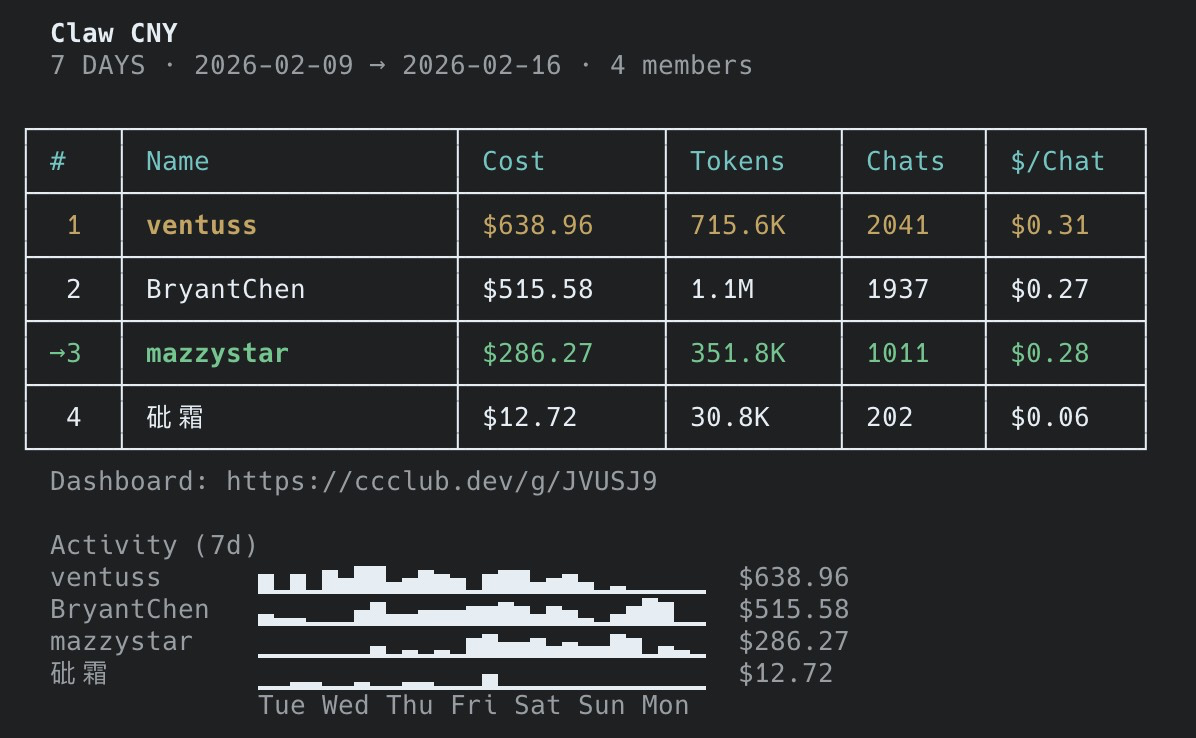
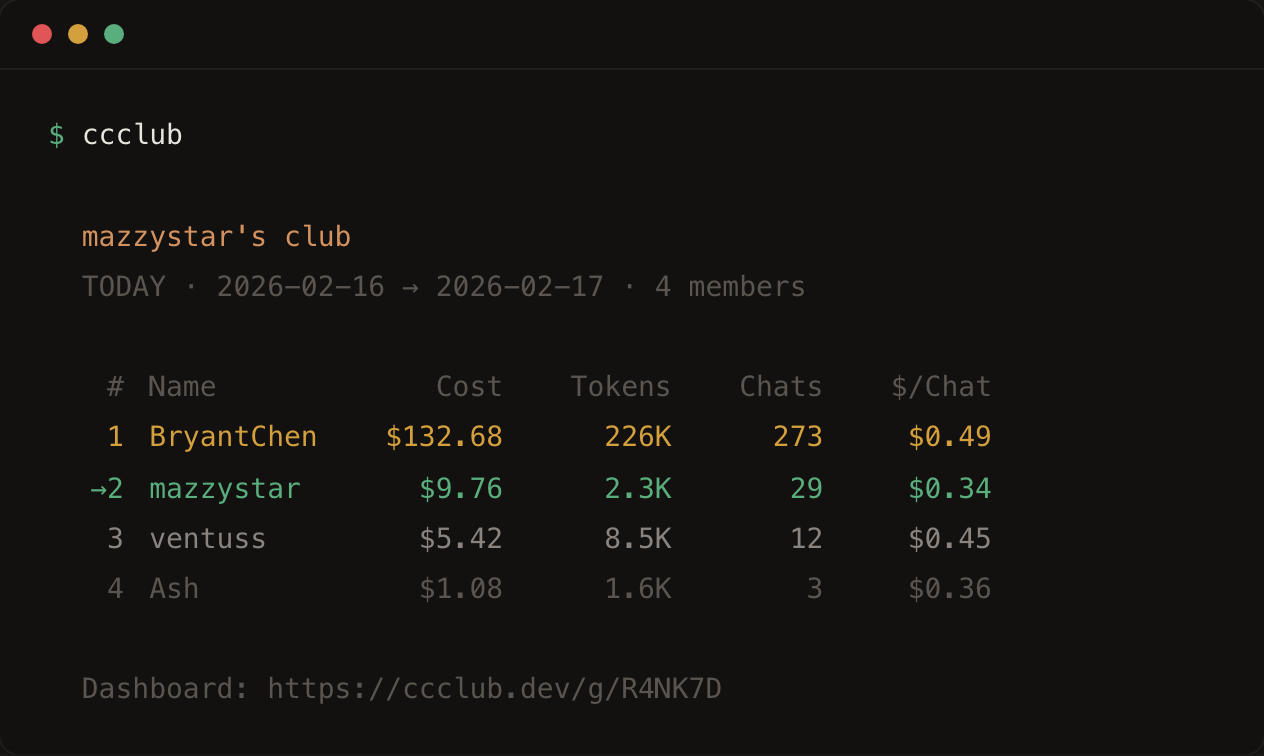
Revamp landing page: table alignment, realistic data, merge sections
- Use inline HTML table for guaranteed column alignment
- Update mock data to realistic daily numbers ($132/$9/$5/$1)
- Merge How-it-works and Privacy into one cohesive section
- Re-screenshot demo.png from live landing page via Playwright

diff --git a/packages/worker/src/landing.ts b/packages/worker/src/landing.ts
@@ -104,6 +104,14 @@ function landingHTML() {
     .terminal-body .accent { color: #d4935e; }
     .terminal-body .gold { color: #d4a03e; }
     .terminal-body .me { color: #5aad7d; }
+    .rank-tbl { border-collapse: collapse; font: inherit; line-height: inherit; display: inline-table; vertical-align: top; }
+    .rank-tbl td { padding: 0; text-align: right; padding-left: 4ch; }
+    .rank-tbl td:first-child { text-align: right; padding-left: 0; width: 2.5ch; }
+    .rank-tbl td:nth-child(2) { text-align: left; padding-left: 1.5ch; min-width: 10ch; }
+    .rank-tbl tr.gold td { color: #d4a03e; }
+    .rank-tbl tr.me td { color: #5aad7d; }
+    .rank-tbl tr.dim td { color: #5a5550; }
+    .rank-tbl thead td { color: #5a5550; }
 
     /* CTA */
     .cta { padding: 16px 0 80px; text-align: center; }
@@ -153,20 +161,11 @@ function landingHTML() {
       font-size: 13px; color: #c8c4be;
     }
 
-    /* Privacy */
-    .privacy-grid {
-      display: grid; grid-template-columns: 1fr 1fr; gap: 32px;
-      margin-bottom: 20px;
+    /* How-detail */
+    .how-detail {
+      margin-top: 24px; color: #6b6560; font-size: 14px; line-height: 1.7;
     }
-    .privacy-list { list-style: none; }
-    .privacy-list li {
-      font-size: 14px; line-height: 2; color: #8a8480;
-      display: flex; align-items: center; gap: 8px;
-    }
-    .privacy-list .icon-yes { color: #5aad7d; font-size: 13px; }
-    .privacy-list .icon-no { color: #c45c5c; font-size: 13px; }
-    .privacy-note { color: #6b6560; font-size: 14px; line-height: 1.6; }
-    .privacy-note code {
+    .how-detail code {
       background: #242220; padding: 1px 6px; border-radius: 4px;
       font-size: 13px; color: #c8c4be;
     }
@@ -192,7 +191,6 @@ function landingHTML() {
     @media (max-width: 600px) {
       .hero { padding: 64px 0 40px; }
       .hero h1 { font-size: 30px; }
-      .privacy-grid { grid-template-columns: 1fr; gap: 16px; }
       .cmd-row { flex-direction: column; gap: 2px; }
     }
   </style>
@@ -221,13 +219,14 @@ function landingHTML() {
         <div class="terminal-body"><span class="prompt">$</span> <span class="cmd">ccclub</span>
 
   <span class="accent">mazzystar's club</span>
-  <span class="dim">7 DAYS \u00b7 2026-02-09 \u2192 2026-02-16 \u00b7 4 members</span>
+  <span class="dim">TODAY \u00b7 2026-02-16 \u2192 2026-02-17 \u00b7 4 members</span>
 
-  <span class="dim">#   Name               Cost    Tokens   Chats   $/Chat</span>
-  <span class="gold">\u21921   ventuss         $638.96     8.2M     347    $1.84</span>
-   2   BryantChen      $515.58     6.6M     280    $1.84
-  <span class="me">\u21923   mazzystar       $286.27     3.7M     195    $1.47</span>
-   <span class="dim">4   Ash              $12.72    163.5K      18    $0.71</span>
+  <table class="rank-tbl"><thead><tr class="dim"><td>#</td><td>Name</td><td>Cost</td><td>Tokens</td><td>Chats</td><td>$/Chat</td></tr></thead><tbody>
+  <tr class="gold"><td>1</td><td>BryantChen</td><td>$132.68</td><td>226K</td><td>273</td><td>$0.49</td></tr>
+  <tr class="me"><td>\u21922</td><td>mazzystar</td><td>$9.76</td><td>2.3K</td><td>29</td><td>$0.34</td></tr>
+  <tr><td>3</td><td>ventuss</td><td>$5.42</td><td>8.5K</td><td>12</td><td>$0.45</td></tr>
+  <tr class="dim"><td>4</td><td>Ash</td><td>$1.08</td><td>1.6K</td><td>3</td><td>$0.36</td></tr>
+  </tbody></table>
 
   <span class="dim">Dashboard: https://ccclub.dev/g/R4NK7D</span></div>
       </div>
@@ -264,33 +263,14 @@ function landingHTML() {
           <div class="step-num">3</div>
           <div class="step-content">
             <h3>Compare</h3>
-            <p>Usage syncs automatically. Run <code class="mono">ccclub</code> or open the web dashboard.</p>
+            <p>Usage syncs automatically after each Claude Code session. Run <code class="mono">ccclub</code> or open the web dashboard anytime.</p>
           </div>
         </div>
       </div>
-    </div>
-
-    <hr class="divider" />
-
-    <div class="section">
-      <h2>Privacy</h2>
-      <div class="privacy-grid">
-        <ul class="privacy-list">
-          <li><span class="icon-yes">\u2713</span> Token counts</li>
-          <li><span class="icon-yes">\u2713</span> Cost estimates</li>
-          <li><span class="icon-yes">\u2713</span> Model names</li>
-          <li><span class="icon-yes">\u2713</span> Number of calls</li>
-        </ul>
-        <ul class="privacy-list">
-          <li><span class="icon-no">\u2717</span> Prompts or responses</li>
-          <li><span class="icon-no">\u2717</span> Code or file contents</li>
-          <li><span class="icon-no">\u2717</span> File paths or projects</li>
-          <li><span class="icon-no">\u2717</span> Conversation data</li>
-        </ul>
+      <div class="how-detail">
+        <p>ccclub reads token counts, cost estimates, model names, and number of calls from <code class="mono">~/.claude/projects/</code> \u2014 the local usage logs that Claude Code already writes. No prompts, responses, code, file paths, or conversation data ever leave your machine.</p>
+        <p style="margin-top:8px">Run <code class="mono">ccclub show-data</code> to see exactly what gets uploaded.</p>
       </div>
-      <p class="privacy-note">
-        Run <code class="mono">ccclub show-data</code> to audit exactly what gets sent.
-      </p>
     </div>
 
     <hr class="divider" />
